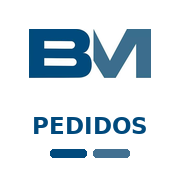
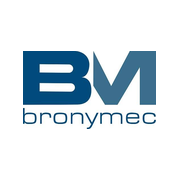
App Bronymec: CAF, Talgo y Fabricación en una sola portada
Claude-Session: https://claude.ai/code/session_013v2x48LYkvDbgkysgiDaFn

Changed region(s): [[0.1111, 0.1389, 0.8889, 0.75], [0.2778, 0.8056, 0.7222, 0.8889]]

diff --git a/pedidos/index.html b/pedidos/index.html
@@ -4,14 +4,14 @@
 <meta charset="utf-8">
 <meta http-equiv="Content-Security-Policy" content="default-src 'none'; script-src 'self'; style-src 'unsafe-inline'; font-src 'self'; img-src 'self'; manifest-src 'self'; connect-src 'self'; worker-src 'self'; base-uri 'none'; form-action 'none'">
 <meta name="viewport" content="width=device-width,initial-scale=1">
-<title>Pedidos Bronymec</title>
+<title>Bronymec</title>
 <link rel="manifest" href="manifest.webmanifest">
 <link rel="icon" href="favicon.png"><link rel="apple-touch-icon" href="apple-touch-icon.png">
 <meta name="theme-color" content="#014A7D">
 <style>
 @font-face{font-family:Archivo;src:url(../archivo.woff2) format("woff2");font-weight:100 900;font-display:swap}
-:root{--bg:#F3F6F9;--card:#FFFFFF;--ink:#0F2233;--muted:#5C6F7E;--line:#D5DEE6;--caf:#014A7D;--talgo:#426F91;--on:#FFFFFF;color-scheme:light}
-@media (prefers-color-scheme:dark){:root{--bg:#0B1620;--card:#13212D;--ink:#E5EDF3;--muted:#93A6B5;--line:#223442;--caf:#2F7DB8;--talgo:#5F8FB3;color-scheme:dark}}
+:root{--bg:#F3F6F9;--card:#FFFFFF;--ink:#0F2233;--muted:#5C6F7E;--line:#D5DEE6;--caf:#014A7D;--talgo:#426F91;--fab:#0E2A3D;--on:#FFFFFF;color-scheme:light}
+@media (prefers-color-scheme:dark){:root{--bg:#0B1620;--card:#13212D;--ink:#E5EDF3;--muted:#93A6B5;--line:#223442;--caf:#2F7DB8;--talgo:#5F8FB3;--fab:#1F4A66;color-scheme:dark}}
 *{box-sizing:border-box}
 html,body{height:100%}
 body{margin:0;background:var(--bg);color:var(--ink);font-family:Archivo,"Segoe UI",system-ui,sans-serif;display:flex;flex-direction:column}
@@ -21,9 +21,12 @@ header{display:flex;align-items:center;justify-content:space-between;gap:16px;pa
 main{flex:1;display:flex;flex-direction:column;justify-content:center;gap:28px;padding:32px clamp(16px,4vw,48px);max-width:1100px;width:100%;margin:0 auto}
 h1{margin:0;font-size:clamp(28px,3.4vw,40px);font-weight:800;letter-spacing:-.01em}
 h1 span{display:block;font-size:15px;font-weight:500;color:var(--muted);letter-spacing:0;margin-top:6px}
-.grid{display:grid;grid-template-columns:repeat(auto-fit,minmax(280px,1fr));gap:20px}
+.grid{display:grid;grid-template-columns:repeat(3,minmax(0,1fr));gap:20px}
+@media (max-width:900px){.grid{grid-template-columns:1fr}}
 a.emp{display:flex;flex-direction:column;justify-content:space-between;gap:28px;min-height:230px;padding:26px 28px;border-radius:14px;text-decoration:none;color:var(--on);position:relative;outline-offset:4px;transition:transform .15s ease, box-shadow .15s ease}
-a.emp.caf{background:var(--caf)} a.emp.talgo{background:var(--talgo)}
+a.emp.caf{background:var(--caf)} a.emp.talgo{background:var(--talgo)} a.emp.fab{background:var(--fab)}
+.n.s{font-size:clamp(34px,4.2vw,52px)}
+.tag{font-size:12px;font-weight:700;letter-spacing:.08em;text-transform:uppercase;opacity:.75;margin-bottom:6px;display:block}
 a.emp:hover{transform:translateY(-3px);box-shadow:0 14px 30px rgba(1,40,70,.25)}
 a.emp:focus-visible{outline:3px solid var(--ink)}
 .n{font-size:clamp(46px,6vw,72px);font-weight:800;line-height:.9;letter-spacing:-.02em}
@@ -42,21 +45,26 @@ footer{padding:14px clamp(16px,4vw,48px);font-size:13px;color:var(--muted);borde
   <div class="hoy" id="hoy"></div>
 </header>
 <main>
-  <h1>Control de Pedidos<span>Elige qué empresa gestionamos</span></h1>
+  <h1>Buenos días<span>Elige con qué trabajamos</span></h1>
   <div class="grid">
     <a class="emp caf" id="caf" href="https://claude.ai/artifact/JaNin9x1uSdN9N7M86ywHP">
       <span class="last" hidden>Última abierta</span><span class="k">1</span>
-      <span class="n">CAF</span>
+      <span><span class="tag">Control de Pedidos</span><span class="n">CAF</span></span>
       <span class="d">Pedidos, entregas, Ariba y previsión del Grupo CAF</span>
     </a>
     <a class="emp talgo" id="talgo" href="https://claude.ai/artifact/ANQdhLtbetajpn863XY5cZ">
       <span class="last" hidden>Última abierta</span><span class="k">2</span>
-      <span class="n">TALGO</span>
+      <span><span class="tag">Control de Pedidos</span><span class="n">TALGO</span></span>
       <span class="d">Pedidos abiertos, atrasos y entregas de Talgo</span>
+    </a>
+    <a class="emp fab" id="fab" href="https://baletxe.github.io/taller-bronymec/">
+      <span class="last" hidden>Última abierta</span><span class="k">3</span>
+      <span><span class="tag">Taller · CAF y Talgo</span><span class="n s">FABRICACIÓN</span></span>
+      <span class="d">Planificación de máquinas, calendario y mensajes del taller</span>
     </a>
   </div>
 </main>
-<footer>Los paneles se abren en Claude con tu cuenta. Para volver aquí, cierra el panel con la X de la barra superior.</footer>
+<footer>Para volver aquí y cambiar, pulsa la X de la barra de arriba (o Alt + ←). Teclas 1, 2 y 3 para entrar directo.</footer>
 <script src="app.js"></script>
 </body>
 </html>

diff --git a/pedidos/app.js b/pedidos/app.js
@@ -3,11 +3,13 @@
   var s = d.toLocaleDateString('es-ES', { weekday: 'long', day: 'numeric', month: 'long' });
   var w = (function (x) { x = new Date(Date.UTC(x.getFullYear(), x.getMonth(), x.getDate())); var day = x.getUTCDay() || 7; x.setUTCDate(x.getUTCDate() + 4 - day); var y = new Date(Date.UTC(x.getUTCFullYear(), 0, 1)); return Math.ceil(((x - y) / 86400000 + 1) / 7); })(d);
   document.getElementById('hoy').textContent = s.charAt(0).toUpperCase() + s.slice(1) + ' · Semana ' + w;
+  var hr = d.getHours(); var sal = hr < 14 ? 'Buenos días' : hr < 21 ? 'Buenas tardes' : 'Buenas noches';
+  var h1 = document.querySelector('h1'); if (h1 && h1.firstChild) h1.firstChild.nodeValue = sal;
   var last = null; try { last = localStorage.getItem('pedidos-ultima'); } catch (e) {}
   if (last && document.getElementById(last)) document.querySelector('#' + last + ' .last').hidden = false;
   function ir(id) { try { localStorage.setItem('pedidos-ultima', id); } catch (e) {} location.href = document.getElementById(id).href; }
-  ['caf', 'talgo'].forEach(function (id) { document.getElementById(id).addEventListener('click', function () { try { localStorage.setItem('pedidos-ultima', id); } catch (e) {} }); });
-  document.addEventListener('keydown', function (e) { if (e.ctrlKey || e.metaKey || e.altKey) return; if (e.key === '1') ir('caf'); if (e.key === '2') ir('talgo'); });
-  var q = new URLSearchParams(location.search).get('ir'); if (q === 'caf' || q === 'talgo') ir(q);
+  ['caf', 'talgo', 'fab'].forEach(function (id) { document.getElementById(id).addEventListener('click', function () { try { localStorage.setItem('pedidos-ultima', id); } catch (e) {} }); });
+  document.addEventListener('keydown', function (e) { if (e.ctrlKey || e.metaKey || e.altKey) return; if (e.key === '1') ir('caf'); if (e.key === '2') ir('talgo'); if (e.key === '3') ir('fab'); });
+  var q = new URLSearchParams(location.search).get('ir'); if (q === 'caf' || q === 'talgo' || q === 'fab') ir(q);
   if ('serviceWorker' in navigator) navigator.serviceWorker.register('sw.js', { scope: './' }).catch(function () {});
 })();

diff --git a/pedidos/sw.js b/pedidos/sw.js
@@ -1,5 +1,5 @@
 /* Pedidos Bronymec: solo guarda la portada para que abra sin red; los paneles viven en Claude. */
-const C = 'pedidos-v1';
+const C = 'pedidos-v2';
 const BASE = ['./', 'index.html', 'manifest.webmanifest', 'logo-bronymec.png', 'icon-192.png', 'icon-512.png', 'favicon.png', '../archivo.woff2'];
 self.addEventListener('install', e => { e.waitUntil(caches.open(C).then(c => c.addAll(BASE))); self.skipWaiting(); });
 self.addEventListener('activate', e => { e.waitUntil(caches.keys().then(ks => Promise.all(ks.filter(k => k.startsWith('pedidos-') && k !== C).map(k => caches.delete(k)))).then(() => self.clients.claim())); });
